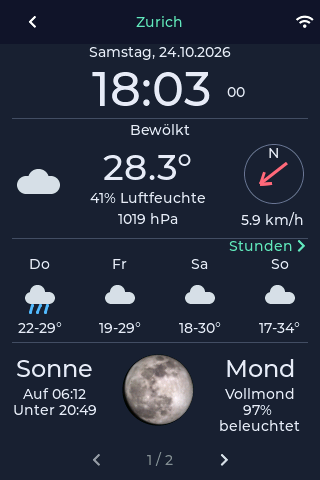
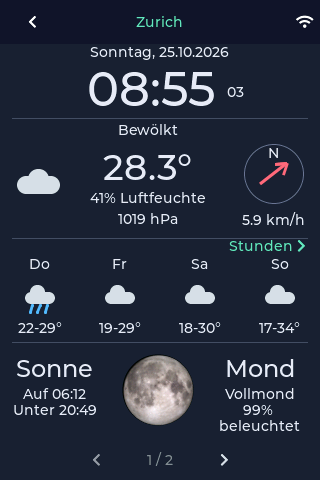
Fix Weather screen

diff --git a/src/ui/ClassicWeatherView.cpp b/src/ui/ClassicWeatherView.cpp
@@ -220,12 +220,14 @@ void classic_weather_create(ClassicWeatherView &v, lv_obj_t *parent) {
     v.date = label(root, 0, 0, 320, "--, --.--.----");
     v.clock = label(root, 30, 28, 244, "--:--", &weather_clock_48);
     v.seconds = label(root, 210, 40, 52, "--");
-    v.condition = label(root, 0, 78, 320, i18n::tr("No weather data"));
+    // Keep all condition readings on the same column centre.
+    constexpr int readingsX=72, readingsWidth=152;
+    v.condition = label(root, readingsX, 78, readingsWidth, i18n::tr("No weather data"));
     v.icon = weather_icon_create(root, WeatherIconKind::Cloudy, 56);
     lv_obj_set_pos(v.icon, 10, 108);
-    v.temperature = label(root, 72, 110, 152, "--", &weather_temperature_36);
-    v.humidity = label(root, 72, 146, 152, "--");
-    v.pressure = label(root, 72, 167, 152, "--");
+    v.temperature = label(root, readingsX, 110, readingsWidth, "--", &weather_temperature_36);
+    v.humidity = label(root, readingsX, 146, readingsWidth, "--");
+    v.pressure = label(root, readingsX, 167, readingsWidth, "--");
     auto *compass = lv_obj_create(root);
     lv_obj_set_pos(compass, 244, 100);
     lv_obj_set_size(compass, 60, 60);
@@ -239,7 +241,7 @@ void classic_weather_create(ClassicWeatherView &v, lv_obj_t *parent) {
     v.wind_arrow = lv_line_create(compass);
     lv_obj_set_style_line_color(v.wind_arrow, lv_color_hex(0xff6b7a), 0);
     lv_obj_set_style_line_width(v.wind_arrow, 3, 0);
-    v.wind = label(root, 228, 168, 90, "--");
+    v.wind = label(root, 229, 168, 90, "--");
     // Keep the existing daily section footprint; the small hint sits above the days.
     v.daily_row = lv_obj_create(root);
     plain_container(v.daily_row);
@@ -318,7 +320,9 @@ void classic_weather_update(ClassicWeatherView &v) {
         textf(v.humidity, i18n::tr("%.0f%% humidity"), weather.humidity_value());
         textf(v.pressure, weather.is_metric() ? "%.0f hPa" : "%.2f inHg", weather.pressure_value());
         textf(v.wind, "%.1f %s", weather.wind_speed_value(), weather.is_metric() ? "km/h" : "mph");
-        const double a = weather.wind_direction_degrees() * PI / 180;
+        // Meteorological bearings describe where wind comes FROM.
+        // The arrowhead shows airflow, so point toward the opposite bearing.
+        const double a = (weather.wind_direction_degrees() + 180.0) * PI / 180;
         auto point = [&](double x, double y) { return lv_point_precise_t{
             (lv_value_precise_t)(29 + x * std::cos(a) - y * std::sin(a)),
             (lv_value_precise_t)(29 + x * std::sin(a) + y * std::cos(a))}; };

diff --git a/test/weather/classic_regression.cpp b/test/weather/classic_regression.cpp
@@ -91,6 +91,17 @@ int main() {
     assert(std::strcmp(lv_label_get_text(view.temperature), "14.3°") == 0);
     assert(std::strcmp(lv_label_get_text(view.wind), "4.0 km/h") == 0);
     assert(!lv_obj_has_flag(view.moon, LV_OBJ_FLAG_HIDDEN));
+    // N/E/S/W source bearings must blow toward S/W/N/E respectively.
+    const int flow[][2]={{0,1},{-1,0},{0,-1},{1,0}};
+    for(int cardinal=0;cardinal<4;++cardinal){
+        weather._wind_direction=cardinal*90;
+        classic_weather_update(view);
+        const auto &tail=view.arrow_points[0],&tip=view.arrow_points[1];
+        assert(std::abs(double(tip.x-tail.x)-34*flow[cardinal][0])<1.1);
+        assert(std::abs(double(tip.y-tail.y)-34*flow[cardinal][1])<1.1);
+        assert(weather.wind_direction_degrees()==cardinal*90);
+    }
+
     shade_moon(view, .25f);
     const auto first = view.moon_pixels;
     shade_moon(view, .75f);
